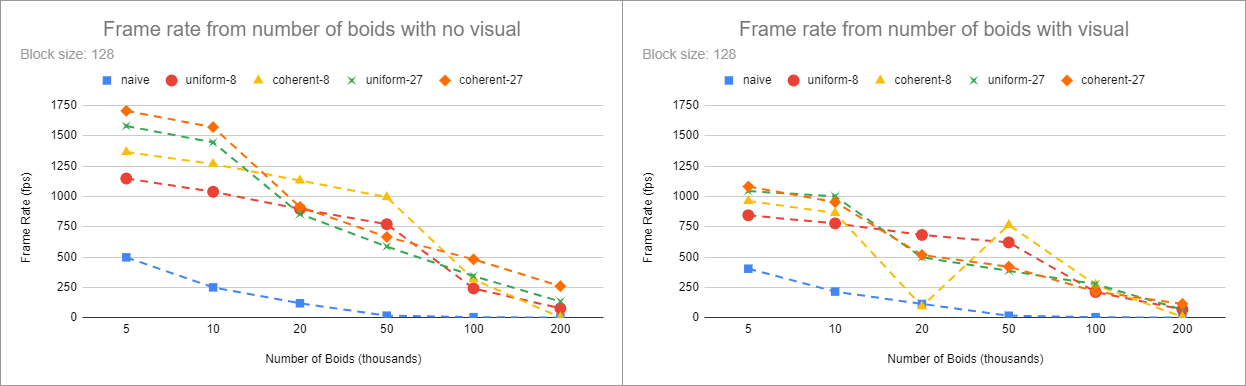
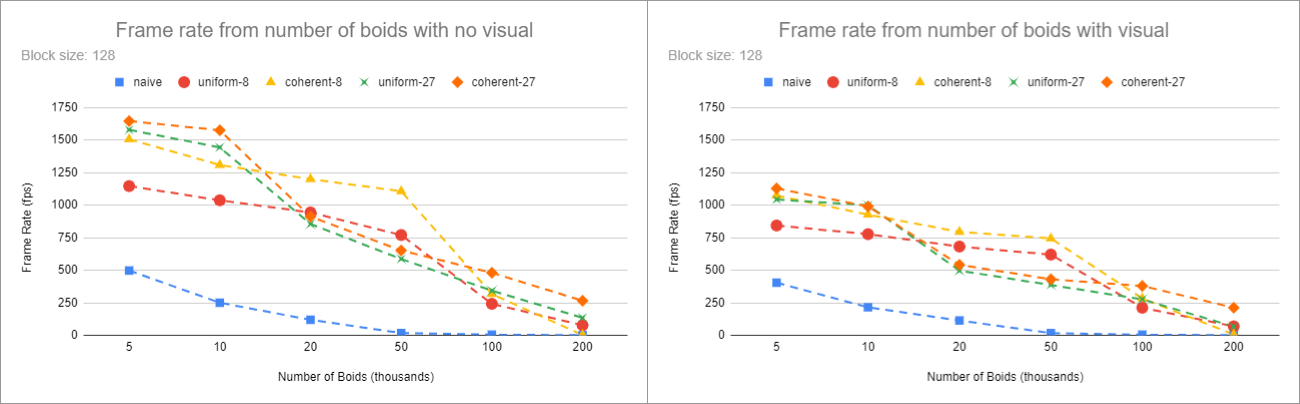
readme documentation and figures

diff --git a/src/main.cpp b/src/main.cpp
@@ -13,14 +13,14 @@
 // ================
 
 // LOOK-2.1 LOOK-2.3 - toggles for UNIFORM_GRID and COHERENT_GRID
-#define VISUALIZE 1
+#define VISUALIZE 0
 #define UNIFORM_GRID 1
-#define COHERENT_GRID 1
+#define COHERENT_GRID 0
 #define TIME 0
 
 
 // LOOK-1.2 - change this to adjust particle count in the simulation
-const int N_FOR_VIS = 5000;
+const int N_FOR_VIS = 20000;
 const float DT = 0.2f;
 
 /**

diff --git a/README.md b/README.md
@@ -7,12 +7,14 @@ Project 1 - Flocking**
 * Klayton Wittler
 	* [LinkedIn](https://www.linkedin.com/in/klayton-wittler/)
 * Tested on: Windows 10 Pro, i7-7700K @ 4.20GHz 16.0GB, GTX 1070 8.192GB (my PC)
-______
+
+## Sections
 
 * [Introduction](#introduction-to-boid-flocking)
 	* [Rules](#rules)
 	* [Approaches](#approaches)
 * [Performance Analaysis](#performance-analysis)
+	* [Questions](#questions)
 * [Addition Optimization](#additional-optimization)
 
 ![coherent 50k simulation](images/simulation_50k.gif)
@@ -83,7 +85,7 @@ The naive approach is for each boid to compare itself to everyother boid. This q
 To speed up the search we can take advantage of a uniform spatial grid data structure. As seen in 2D below, the environment is divided into cells which each boid will be binned into during a preprocess step.
 ![a uniform grid in 2D](images/Boids%20Ugrid%20base.png)
 
-In order to narrow the search we can just find the cells with a boids search radius and compare to each boid within those cells. For the 2D case where the cell width is twice the maximum rule distance, we just have to search 4 cells and in 3D this would be 8 cells.
+In order to narrow the search we can just find the cells with a boids search radius and compare to each boid within those cells. For the 2D case where the cell width is twice the maximum rule distance, we just have to search 4 cells and in 3D this would be 8 cells. If the cell width was the maximum rule distance, we would have to search 9 cells in the 2D case and 27 cells in the 3D case. 
 
 ![a uniform grid in 2D with neighborhood and cells to search for some particles shown](images/Boids%20Ugrid%20neighbor%20search%20shown.png)
 
@@ -96,27 +98,58 @@ We can further optimize this by also sorting the array that contains the positio
 ![buffers for generating a uniform grid using index sort, then making the boid data coherent](images/Boids%20Ugrids%20buffers%20data%20coherent.png)
 
 # Performance Analysis
+To do a performance analysis, vertical sync is turn off so that the frame rate won't be capped based on the monitor and the frames per second (fps) of a simulation is recorded.
 
+Initially visualization is turned off to get a better comparison of algorithm run times without display code running. The figure below displays all approaches including differing cell width of twice the maximum rule distance (8 cells) and at the maximum rule distance (27 cells). Cell width changes were not included for the naive approach since it does not divide the simulation into a grid. Below 20k boids the 27 cells search performs better than the 8 cells search and again becomes better above 100k boids. The sorting to do a coherent memory search seems to also have a fairly consistent increase in performance.
 
-![](images/num_boids_combined.png)
+![boids noVisual](images/num_boids_noVisual.png)
 
-![](images/block_size_noVisual.png)
+However, watching the boids flock is the fun part. We can see the performance for all approaches in the figure below and see that the general trends are the same as without visuals, but with some perforance decrease from rendering.
+
+![boids visual](images/num_boids_visual.png)
+
+Similarly, we can see which block size give the best performance. The algorithms in the figure below were ran without visual to have the most consistent baseline and were tried just at 20k boids. It can be seen that there is negligible differences between the number of threads in a block. It should also be noted that only multiples of 32 were tried since the warp size is 32 and any other numbers would result in wasted threads.
+
+![blocks noVisual](images/block_size_noVisual.png)
 
 
 ## Questions
-* For each implementation, how does changing the number of boids affect
-performance? Why do you think this is?
-* For each implementation, how does changing the block count and block size
-affect performance? Why do you think this is?
-* For the coherent uniform grid: did you experience any performance improvements
+* <b>For each implementation, how does changing the number of boids affect
+performance? Why do you think this is? </b>
+
+For the naive case, the performance drops exponentially do to the ![](images/OnSquared.png) time complexity. Each boid as the check itself against evryone else. On the other hand, uniform grid and uniform grid with coherent memory searches performances drops in piecewise-linear segments. This is because the comparison to other cells is constant in respect to the number of boids but the checks into neighboring cells is still ![](images/OnSquared.png). As the number of boids increases the number of boids that may be in a cell increases, ultimately resulting in significant increases in computation.
+
+* <b>For each implementation, how does changing the block count and block size
+affect performance? Why do you think this is? </b>
+
+The performance by changing the number of threads in a block was fairly negligible across algorithms. This is because the block count is scaled with the number of threads to a block so that if the threads per block increase the number of blocks will decrease by the same factor and vice versa. Since only factors of 32 were tried, there were not wasted threads to impact performance.
+
+* <b>For the coherent uniform grid: did you experience any performance improvements
 with the more coherent uniform grid? Was this the outcome you expected?
-Why or why not?
-* Did changing cell width and checking 27 vs 8 neighboring cells affect performance?
+Why or why not? </b>
+
+There was a pretty constant increase in the performance impact from having a coherent grid. This was expected since sorting typically becomes worth it as number of look ups increases.
+
+* <b>Did changing cell width and checking 27 vs 8 neighboring cells affect performance?
 Why or why not? Be careful: it is insufficient (and possibly incorrect) to say
-that 27-cell is slower simply because there are more cells to check!
+that 27-cell is slower simply because there are more cells to check! </b>
+
+Suprisingly checking 27 cells versus 8 cells did not always result in worse performance. This is most likely due to the higher resolution that having 27 cells gives, leveraging the constant time of checking cells over boids, but as the number of boids increases past a threshold the resolution no longer provides a benefit since there is a high probably boids are in all of the cells nearby anyway.
 
 # Additional Optimization
 
+Beyond just doing a coherent uniform grid, there are some other ways to optimize performance.
+
 ![coherent 200k simulation](images/simulation_200k.gif)
+
+Initially the uniform grid searches (coherent and not) were being looped through the z-axis first in the inner loop, y-axis next, and finally the x-axis. But since the objective of the coherent grid is to have nearby boids next to each other in memory this order is not the best since the index equation is ```x + y * gridResolution + z * gridResolution * gridResolution```. This lead to reversing the order, which the performance differences can be seen below, suprisingly at 20k and 50k boids this approach does not help. The comparison was not made on the normal uniform grid search, since there is no sorting in memory it would not have any impact.
+
+![](images/XYZ_ZYXloop.png)
+
+Fianlly, to further reduce the amount of cells to search I utilized the fact that a n-dimensional box can be described as ![](images/nDbox.png). Where b is half the side length, c is the center of the box, and x is the point in question. With this in mind we can take some cell in question, find the center c, increase the b that describes it by the maximum rule distance, and see if the boid x would now belong to the new cell. If so that means there are boids within the original cell that might be close enough the current boid to have an effect on its velocity. If not, even though the cell is a neighbor it can be excluded from the search. Seen in case 1 and 2 below.
+
+![](images/optimization_example.png)
+
+This seemed great in theory, however the performance data below does not suggest this helps. This approach most likely beats comparing the boid to all 8 vertices of the cell, and there might be ways to speed up the geometrical comparison even more.
 
 ![](images/optimized_noVisual.png)
